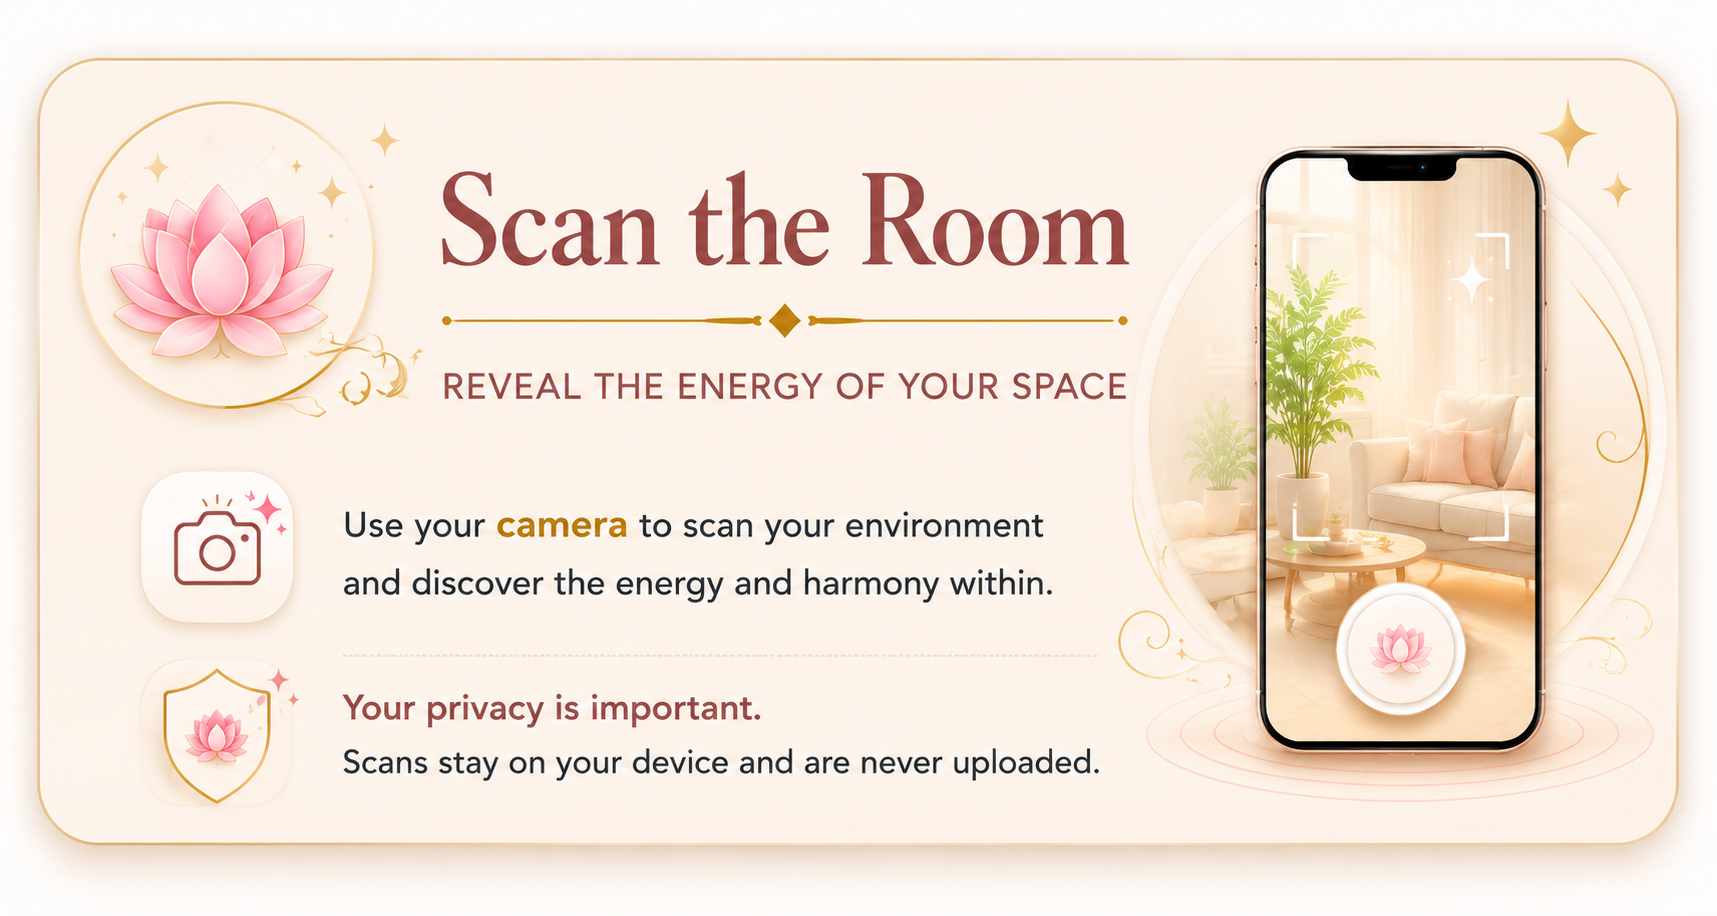
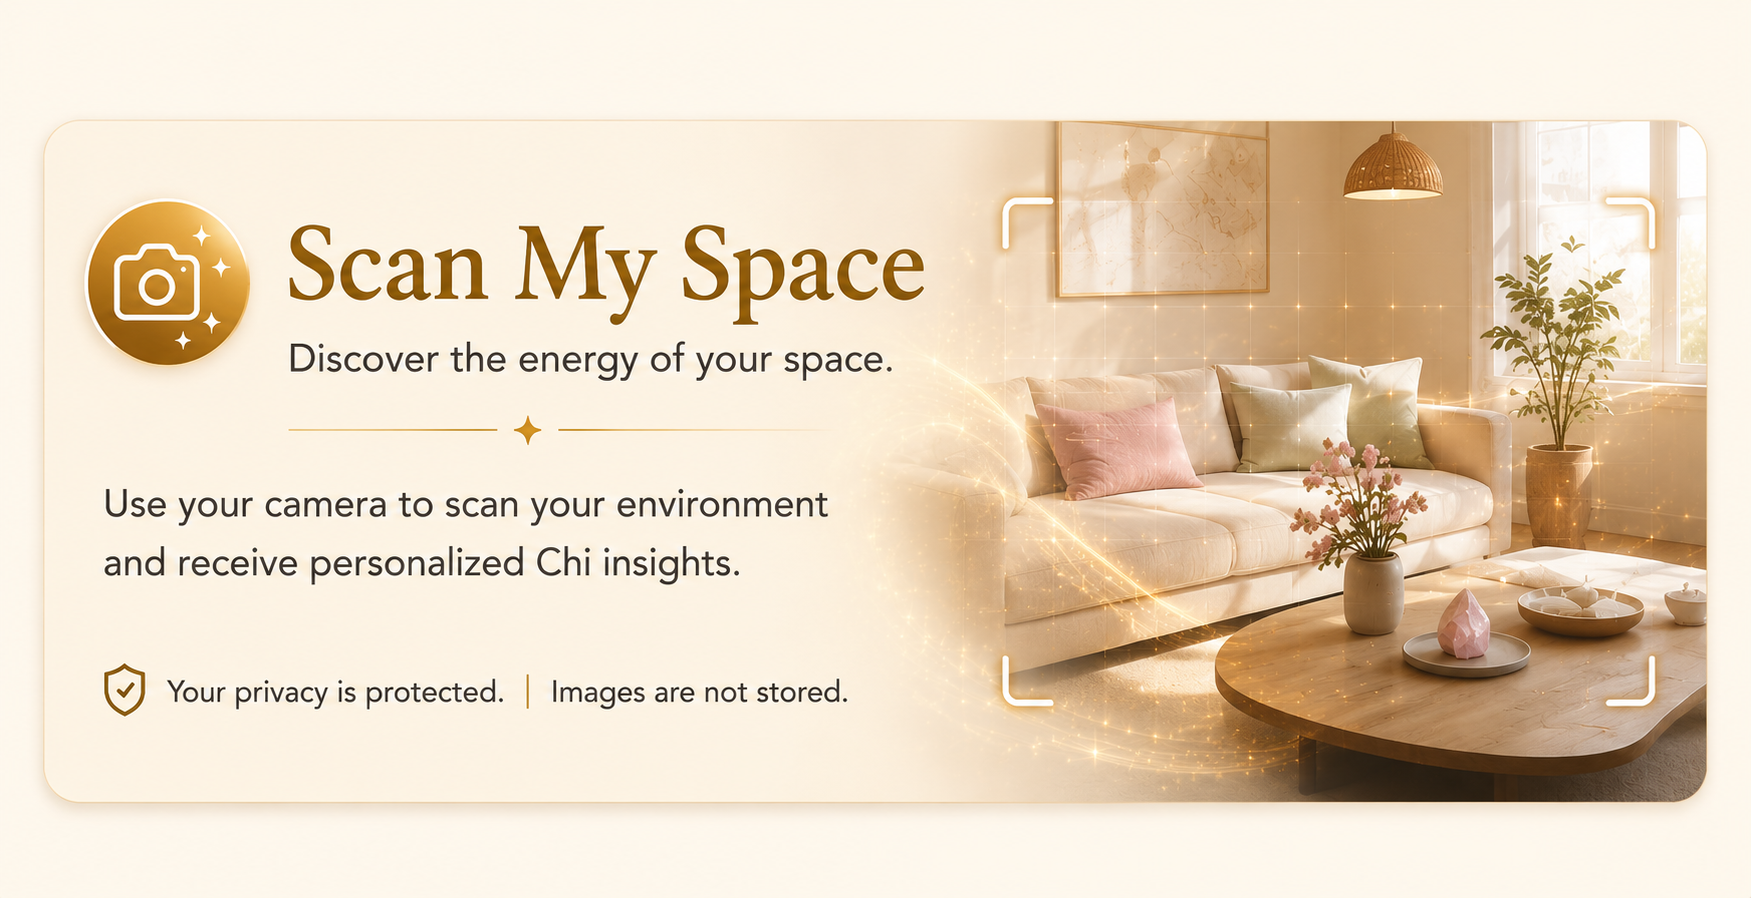
v4.6.0: Add Feng Shui tips for all 14 room types + version bump

diff --git a/lib/services/content_service.dart b/lib/services/content_service.dart
@@ -36,6 +36,56 @@ class ContentService {
       {'title': 'Activate Career Corner', 'description': 'Strengthen your career area (north) with water elements: a small fountain, blue decor, or an image of flowing water.', 'icon': '🧭'},
       {'title': 'Crystal for Focus', 'description': 'Place a clear quartz or amethyst on your desk to enhance clarity, focus, and positive energy.', 'icon': '💎'},
     ],
+    'Dining Room': [
+      {'title': 'Round Table', 'description': 'A round or oval table promotes equality and harmony among diners, allowing chi to flow evenly around the table.', 'icon': '🟤'},
+      {'title': 'Brighten the Space', 'description': 'Good lighting over the dining table symbolizes abundance. Use a warm dimmer chandelier or pendant light.', 'icon': '💡'},
+      {'title': 'Mirror for Abundance', 'description': 'Hanging a mirror reflecting the dining table visually doubles your food, symbolizing doubled prosperity.', 'icon': '🪞'},
+    ],
+    'Entryway': [
+      {'title': 'Welcome Chi', 'description': 'Keep the entryway bright, clean, and clutter-free so that positive energy can enter your home freely.', 'icon': '🚪'},
+      {'title': 'Commanding View', 'description': 'Place a small mirror or artwork at eye level to create an expansive first impression and invite opportunity.', 'icon': '🖼️'},
+      {'title': 'Grounding Element', 'description': 'A bowl of fresh flowers or a plant in the entryway brings the wood element and lively chi into your home.', 'icon': '🌸'},
+    ],
+    'Office': [
+      {'title': 'Desk Command Position', 'description': 'Position your desk facing the entrance from a diagonal angle so you can see the door while working.', 'icon': '🪑'},
+      {'title': 'Activate Wealth Corner', 'description': 'Place a small water feature or purple item in the southeast corner of your office to attract career growth.', 'icon': '🧭'},
+      {'title': 'Declutter for Flow', 'description': 'Keep your desk surface clear of non-essentials. Stagnant clutter blocks chi and slows productivity.', 'icon': '📋'},
+    ],
+    'Garden': [
+      {'title': 'Flowing Pathways', 'description': 'Design gently curving paths rather than straight lines to slow chi and invite peaceful wandering.', 'icon': '🌳'},
+      {'title': 'Five Element Balance', 'description': 'Include plants (wood), solar lights (fire), stone sculptures (earth), wind chimes (metal), and a birdbath (water).', 'icon': '⚖️'},
+      {'title': 'Nurture the Southeast', 'description': 'Plant flowering shrubs or fruit trees in the southeast garden corner to activate wealth and abundance energy.', 'icon': '🌺'},
+    ],
+    'Front Yard': [
+      {'title': 'Clear Approach', 'description': 'Keep the front walkway unobstructed and well-lit. A clear path invites auspicious chi to your door.', 'icon': '🌿'},
+      {'title': 'Welcoming Entrance', 'description': 'A warm, inviting front door — painted red or rich brown — signals abundance and protection to all who arrive.', 'icon': '🚪'},
+      {'title': 'Guardian Plants', 'description': 'Place tall, healthy plants or shrubs on either side of the entrance to act as guardians and balance energy.', 'icon': '🌲'},
+    ],
+    'Backyard': [
+      {'title': 'Private Sanctuary', 'description': 'Create a secluded seating area with soft lighting for relaxation. This is your personal retreat for recharging chi.', 'icon': '🪑'},
+      {'title': 'Water Feature', 'description': 'A small pond, fountain, or birdbath in the backyard activates nourishing water energy and attracts wildlife.', 'icon': '⛲'},
+      {'title': 'Fire Pit for Connection', 'description': 'A fire pit or barbecue area in the south area of your yard strengthens the fire element, fueling passion and social joy.', 'icon': '🔥'},
+    ],
+    'Corporate Office': [
+      {'title': 'Water for Career Flow', 'description': 'Place a fountain or blue-toned art in the north area of the office to support smooth career advancement and new opportunities.', 'icon': '🧭'},
+      {'title': 'Command Seating', 'description': 'Executive desks should face the door diagonally. Avoid sitting with your back to the entrance.', 'icon': '🪑'},
+      {'title': 'Collaboration Zones', 'description': 'Keep the center of the space open for team gatherings. A round table in the center promotes unity and shared chi.', 'icon': '🤝'},
+    ],
+    'Retail Store': [
+      {'title': 'Entrance Energy', 'description': 'Keep the store entrance bright, clean, and free of obstacles. An open door invites customers and prosperity chi inside.', 'icon': '🏪'},
+      {'title': 'Product Placement', 'description': 'Position best-selling items at eye level near the entrance. Use warm lighting to highlight key merchandise.', 'icon': '✨'},
+      {'title': 'Cash Wrap Position', 'description': 'Place the register in the wealth corner (southeast) or in a commanding position facing the entrance for maximum prosperity.', 'icon': '💳'},
+    ],
+    'Restaurant/Café': [
+      {'title': 'Warm Welcome', 'description': 'A warm, inviting host stand near the entrance sets the tone. Soft lighting and soothing music create positive chi for guests.', 'icon': '🍽️'},
+      {'title': 'Kitchen Energy', 'description': 'Keep the kitchen organized and the stove clean. A well-cared-for kitchen generates nourishing energy for both food and staff.', 'icon': '👨🍳'},
+      {'title': 'Seating Flow', 'description': 'Arrange tables so servers can move freely without crossing paths. Smooth service flow equals smooth energy flow.', 'icon': '🪑'},
+    ],
+    'Bathroom': [
+      {'title': 'Keep It Closed', 'description': 'Always close the toilet lid and bathroom door to prevent chi and prosperity from being flushed away.', 'icon': '🚽'},
+      {'title': 'Earth Element Balance', 'description': 'Use warm earth tones (terracotta, beige, sandy brown) to counterbalance the draining water energy of the bathroom.', 'icon': '🏺'},
+      {'title': 'Plants for Purification', 'description': 'Place a moisture-loving plant like bamboo or a fern in the bathroom to absorb excess energy and purify the space.', 'icon': '🪴'},
+    ],
   };
 
   static const List<Map<String, String>> colorGuidance = [

diff --git a/lib/widgets/global_header.dart b/lib/widgets/global_header.dart
@@ -42,16 +42,17 @@ class GlobalHeader extends StatelessWidget {
                   padding: const EdgeInsets.symmetric(horizontal: 40),
                   child: Column(
                     children: [
-                      Text(
-                        title,
-                        textAlign: TextAlign.center,
-                        style: GoogleFonts.playfairDisplay(
-                          fontSize: 24,
-                          fontWeight: FontWeight.w700,
-                          color: ChiGlowTheme.richRed,
-                          height: 1.2,
+                      if (title.isNotEmpty)
+                        Text(
+                          title,
+                          textAlign: TextAlign.center,
+                          style: GoogleFonts.playfairDisplay(
+                            fontSize: MediaQuery.of(context).size.width < 600 ? 17 : 24,
+                            fontWeight: FontWeight.w700,
+                            color: ChiGlowTheme.richRed,
+                            height: 1.2,
+                          ),
                         ),
-                      ),
                       if (subtitle != null) ...[
                         const SizedBox(height: 6),
                         Text(
@@ -79,17 +80,6 @@ class GlobalHeader extends StatelessWidget {
           height: 24,
           fit: BoxFit.contain,
         ),
-        const SizedBox(height: 8),
-        // Flow. Grow. Bloom.
-        Text(
-          'Flow. Grow. Bloom.',
-          style: GoogleFonts.playfairDisplay(
-            fontSize: 13,
-            fontWeight: FontWeight.w500,
-            color: ChiGlowTheme.bronzeGold,
-            letterSpacing: 2.5,
-          ),
-        ),
         const SizedBox(height: 4),
         // Gold divider line
         Image.asset(
@@ -98,7 +88,7 @@ class GlobalHeader extends StatelessWidget {
           height: 4,
           fit: BoxFit.contain,
         ),
-        const SizedBox(height: 20),
+        const SizedBox(height: 10),
       ],
     );
   }

diff --git a/lib/screens/home_screen.dart b/lib/screens/home_screen.dart
@@ -32,13 +32,15 @@ class _HomeScreenState extends State<HomeScreen> {
           child: Column(
             crossAxisAlignment: CrossAxisAlignment.start,
             children: [
-              const GlobalHeader(title: 'Home'),
-              const SizedBox(height: 8),
-              // Greeting — brand is already in GlobalHeader
+              const GlobalHeader(title: ''),
+              const SizedBox(height: 2),
+              // Greeting with user name
               Padding(
                 padding: const EdgeInsets.only(left: 4),
                 child: Text(
-                  'Good ${_timeOfDay()},',
+                  provider.userName.isNotEmpty
+                      ? 'Good ${_timeOfDay()}, ${provider.userName}.'
+                      : 'Good ${_timeOfDay()},',
                   style: GoogleFonts.quicksand(
                     fontSize: 14,
                     color: ChiGlowTheme.bronzeGold,

diff --git a/lib/screens/room_scan_screen.dart b/lib/screens/room_scan_screen.dart
@@ -18,7 +18,9 @@ class _RoomScanScreenState extends State<RoomScanScreen> {
   bool _isAnalyzing = false;
 
   final List<String> _roomTypes = [
-    'Living Room', 'Bedroom', 'Kitchen', 'Home Office', 'Bathroom', 'Dining Room', 'Entryway', 'Garden',
+    'Living Room', 'Bedroom', 'Kitchen', 'Home Office', 'Bathroom', 'Dining Room',
+    'Entryway', 'Garden', 'Office', 'Front Yard', 'Backyard', 'Corporate Office',
+    'Retail Store', 'Restaurant/Café',
   ];
 
   @override